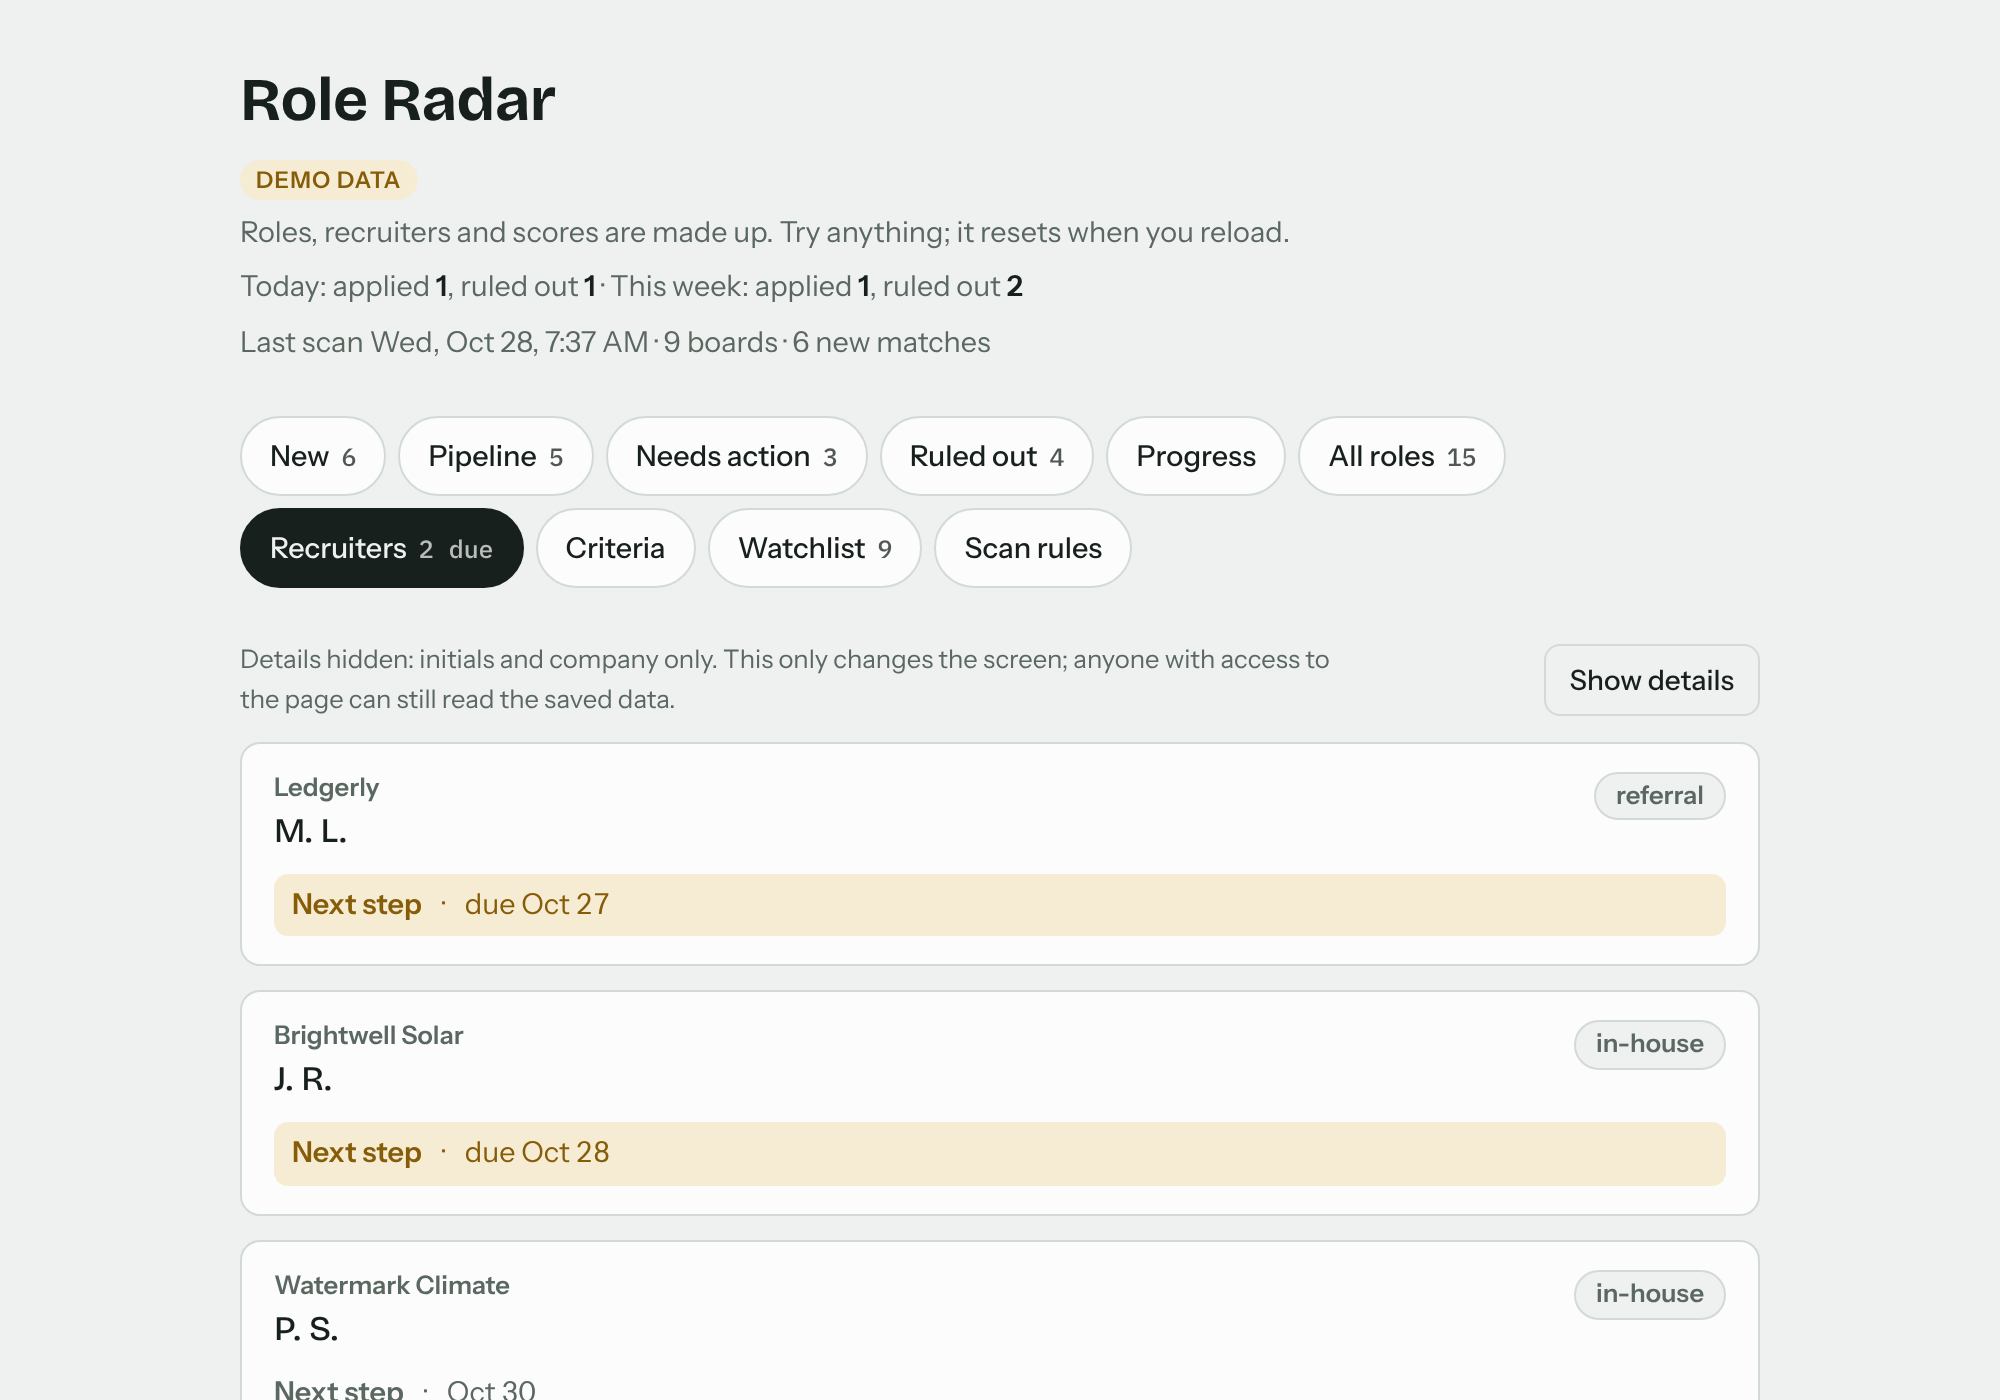
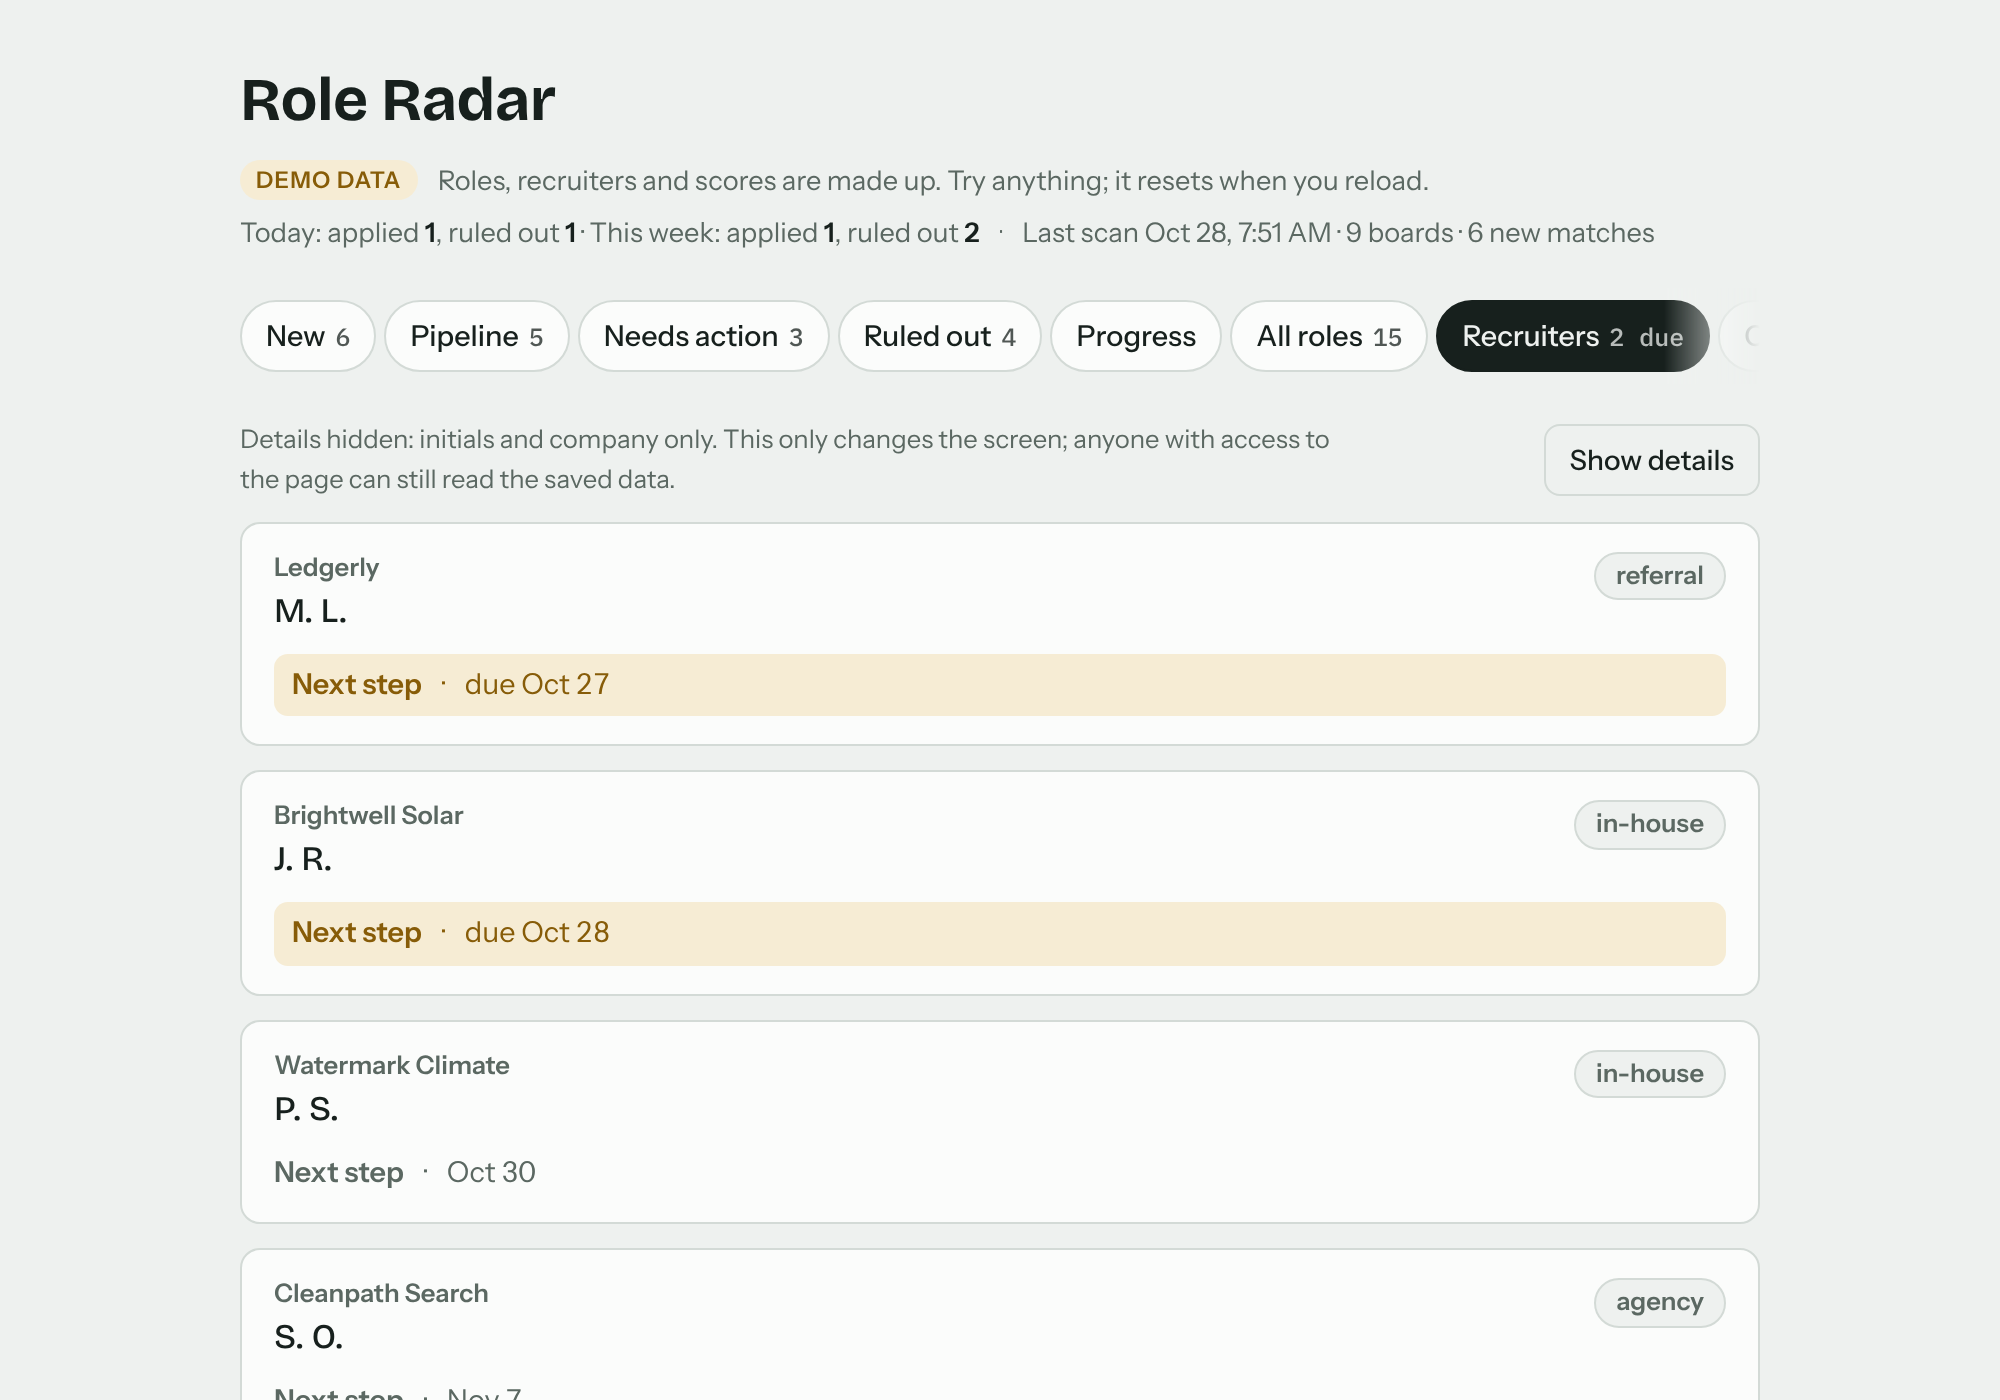
RR-M3.6: final UI round (one tab row, two-line header, no Apply on applied roles)
Claude-Session: https://claude.ai/code/session_01S2xZTupe2qe2vZrkJ8z2XQ

diff --git a/app/role-radar.html b/app/role-radar.html
@@ -29,9 +29,13 @@ h1{font-family:var(--f-display);font-weight:700;font-size:1.9rem;letter-spacing:
 .mono{font-family:var(--f-mono);font-variant-numeric:tabular-nums}
 /* Dates and pay inside sentences read in the body font (tabular digits keep columns tidy). */
 .next .mono,.pv-head .meta .mono,.gmlist .mono{font-family:var(--f-body)}
-#tabs{display:flex;gap:6px;flex-wrap:wrap;scrollbar-width:none;position:sticky;top:env(safe-area-inset-top,0px);background:var(--bg);padding-block:8px;z-index:2}
+/* Tabs: one row at every width (RR-UX5-1). Tabs past the edge scroll sideways; a fade marks the hidden side. */
+#tabs{display:flex;gap:4px;flex-wrap:nowrap;overflow-x:auto;scrollbar-width:none;position:sticky;top:env(safe-area-inset-top,0px);background:var(--bg);padding-block:6px;z-index:2}
+#tabs.more-r{-webkit-mask-image:linear-gradient(to right,#000 calc(100% - 48px),transparent);mask-image:linear-gradient(to right,#000 calc(100% - 48px),transparent)}
+#tabs.more-l{-webkit-mask-image:linear-gradient(to left,#000 calc(100% - 48px),transparent);mask-image:linear-gradient(to left,#000 calc(100% - 48px),transparent)}
+#tabs.more-l.more-r{-webkit-mask-image:linear-gradient(to right,transparent,#000 48px,#000 calc(100% - 48px),transparent);mask-image:linear-gradient(to right,transparent,#000 48px,#000 calc(100% - 48px),transparent)}
 #tabs::-webkit-scrollbar{display:none}
-#tabs button{font:500 .9rem var(--f-body);border:1px solid var(--line);background:var(--surface);color:var(--ink);border-radius:999px;padding:0 14px;min-height:40px;cursor:pointer;display:flex;flex:none;gap:6px;align-items:center;white-space:nowrap;scroll-snap-align:start}
+#tabs button{font:500 .9rem var(--f-body);border:1px solid var(--line);background:var(--surface);color:var(--ink);border-radius:999px;padding:0 12px;min-height:36px;cursor:pointer;display:flex;flex:none;gap:5px;align-items:center;white-space:nowrap;scroll-snap-align:start}
 #tabs button:hover{border-color:var(--accent)}
 #tabs button[aria-selected="true"]{background:var(--ink);color:var(--bg);border-color:var(--ink)}
 #tabs .n{font-family:var(--f-mono);font-size:.78rem;opacity:.75}
@@ -59,7 +63,7 @@ button:focus-visible,input:focus-visible,select:focus-visible,textarea:focus-vis
 .st{background:var(--accent-soft);color:var(--accent)}
 .actions{display:flex;flex-wrap:wrap;gap:6px}
 /* Buttons: one solid-accent primary per card or form (.cta / .primary), the rest outlined. 36px on desktop, 44px on touch. */
-.btn{font:500 .875rem var(--f-body);border:1px solid var(--line);background:transparent;color:var(--ink);border-radius:8px;padding:0 12px;min-height:36px;box-sizing:border-box;display:inline-flex;align-items:center;justify-content:center;gap:6px;cursor:pointer}
+.btn{white-space:nowrap;font:500 .875rem var(--f-body);border:1px solid var(--line);background:transparent;color:var(--ink);border-radius:8px;padding:0 12px;min-height:36px;box-sizing:border-box;display:inline-flex;align-items:center;justify-content:center;gap:6px;cursor:pointer}
 .btn:hover{border-color:var(--accent)}
 .btn.cta{background:var(--accent);border-color:var(--accent);color:var(--surface);font-weight:600}
 .btn.cta:hover{filter:brightness(1.08)}
@@ -108,8 +112,8 @@ dialog .row2{display:flex;gap:8px;justify-content:flex-end;margin-top:10px;flex-
 .fbar{margin:0 0 14px;background:var(--surface);border:1px solid var(--line);border-radius:10px;padding:12px 14px;display:grid;gap:10px}
 .fbar .fields{grid-template-columns:repeat(auto-fit,minmax(130px,1fr))}
 #ftoggle{display:none;align-items:center}
-/* On phones the tab bar wraps to 2-3 rows, so it scrolls away instead of covering a fifth of the screen. */
-@media (max-width:600px){#tabs{position:static;flex-wrap:nowrap;overflow-x:auto;scroll-snap-type:x proximity;padding:6px 16px;margin-inline:-16px;scroll-padding-inline:16px}}
+/* On phones the tab bar scrolls away instead of covering a fifth of the screen. */
+@media (max-width:600px){#tabs{position:static;gap:6px;scroll-snap-type:x proximity;padding:6px 16px;margin-inline:-16px;scroll-padding-inline:16px}}
 /* Phones: a shorter header so the first role title lands on the first screen. */
 @media (max-width:600px){h1{font-size:1.6rem}.wrap{padding-top:12px;gap:12px}header{gap:4px}.lede{font-size:.95rem}}
 /* Filters fold behind one button at every width, so the first role is never pushed below the fold (RR-UX4-1). */
@@ -228,6 +232,10 @@ details.more form{display:grid;gap:10px;padding-top:10px}
 .why-score{font:400 .72rem/1.45 var(--f-mono);color:var(--muted)}
 .why-score span{white-space:nowrap}
 .dream-note{font:500 .8rem var(--f-body);color:var(--good);margin:0}
+/* Header meta in two rows: demo badge + note, then today's progress · last scan (RR-UX5-2). */
+.hrow{display:flex;flex-wrap:wrap;align-items:center;gap:4px 10px;min-width:0}
+.hrow:not(:has(> :not([hidden]))){display:none}
+@media (min-width:601px){header .sub{font-size:.85rem}.meta-row:has(#progress:not([hidden])){flex-wrap:nowrap}#progress{white-space:nowrap}#progress:not([hidden])+#scanLine{white-space:nowrap;min-width:0;overflow:hidden;text-overflow:ellipsis}#progress:not([hidden])+#scanLine::before{content:"·";margin-right:10px}}
 .demo{font:600 .72rem var(--f-body);letter-spacing:.05em;text-transform:uppercase;padding:3px 8px;border-radius:999px;background:var(--warn-soft);color:var(--warn);justify-self:start}
 .dig{display:grid;gap:6px;margin:0;padding:0;list-style:none}
 .dig li{display:grid;grid-template-columns:auto minmax(0,1fr);gap:2px 10px;align-items:baseline}
@@ -288,10 +296,10 @@ details.more form{display:grid;gap:10px;padding-top:10px}
   <header>
     <h1>Role Radar</h1>
     <p class="lede" id="lede" hidden>A job-search radar I built for my own search. It reads job boards every weekday and scores each role 0–100 against criteria I edit, with the math on every card. Applying stays my own call.</p>
-    <span class="demo" id="demoNote" hidden>Demo data</span>
-    <p class="sub" id="demoTry" hidden>Roles, recruiters and scores are made up. Try anything; it resets when you reload.</p>
-    <p class="sub progress" id="progress" role="status" hidden></p>
-    <p class="sub" id="scanLine">Remote Senior and Staff PM roles from company boards, ZipRecruiter, Himalayas and job alerts, checked every weekday morning.</p>
+    <div class="hrow"><span class="demo" id="demoNote" hidden>Demo data</span>
+    <p class="sub" id="demoTry" hidden>Roles, recruiters and scores are made up. Try anything; it resets when you reload.</p></div>
+    <div class="hrow meta-row"><p class="sub progress" id="progress" role="status" hidden></p>
+    <p class="sub" id="scanLine">Remote Senior and Staff PM roles from company boards, ZipRecruiter, Himalayas and job alerts, checked every weekday morning.</p></div>
     <p class="sub stale" id="scanStale" role="status" hidden></p>
   </header>
 
@@ -454,15 +462,31 @@ function renderTabs(){
   const c=counts();
   if(tab==="people"&&!showPeople()) tab="inbox";
   $("#tabs").innerHTML=tabList().map(t=>`<button role="tab" id="tab-${t.id}" aria-selected="${t.id===tab}" data-tab="${t.id}">${t.label}${c[t.id]!==""?` <span class="n">${c[t.id]}${t.id==="people"?" due":""}</span>`:""}</button>`).join("");
+  tabsInView();
 }
+// One-row tab bar (RR-UX5-1): scroll the selected tab into view and fade whichever edge hides more tabs.
+function tabsEdges(){ const el=$("#tabs"); if(!el) return; const max=el.scrollWidth-el.clientWidth;
+  el.classList.toggle("more-l",el.scrollLeft>2); el.classList.toggle("more-r",el.scrollLeft<max-2); }
+function tabsInView(){ const el=$("#tabs"), b=el&&el.querySelector('[aria-selected="true"]'); if(!b) return;
+  const r=b.getBoundingClientRect(), e=el.getBoundingClientRect();
+  if(r.left<e.left) el.scrollLeft-=e.left-r.left+48; else if(r.right>e.right) el.scrollLeft+=r.right-e.right+48;
+  tabsEdges(); }
+$("#tabs").addEventListener("scroll",tabsEdges,{passive:true});
+addEventListener("resize",tabsEdges);
+$("#tabs").addEventListener("keydown",e=>{
+  const bs=[...$("#tabs").querySelectorAll("[role=tab]")], i=bs.indexOf(document.activeElement); if(i<0) return;
+  const j={ArrowRight:i+1,ArrowLeft:i-1,Home:0,End:bs.length-1}[e.key]; if(j===undefined) return;
+  e.preventDefault(); bs[(j+bs.length)%bs.length].focus();
+});
 // "greenhouse:orbitline" -> "Greenhouse"
 const boardName=v=>{const a=String(v||"").split(":")[0].toLowerCase(); return (PV&&PV.ATS_LABEL[a])||{workday:"Workday",ashby:"Ashby"}[a]||a||"?";};
 function renderScan(){
   const sw=$("#scanStale"), stale=!!(scan&&scan.lastRun&&PG&&PG.scanStale&&PG.scanStale(scan.lastRun,Date.now()));
   sw.textContent=stale?`Scan hasn't run since ${fmtDate(scan.lastRun)}. New roles may be missing; check the scheduled scan.`:""; sw.hidden=!stale;
   if(!scan){ $("#scanLine").textContent="Remote Senior and Staff PM roles from company boards, ZipRecruiter, Himalayas and job alerts, checked every weekday morning. No scan has run yet."; return;}
-  const when=scan.lastRun?new Date(scan.lastRun).toLocaleString(undefined,{weekday:"short",month:"short",day:"numeric",hour:"numeric",minute:"2-digit"}):"";
+  const when=scan.lastRun?new Date(scan.lastRun).toLocaleString(undefined,{month:"short",day:"numeric",hour:"numeric",minute:"2-digit"}):"";
   $("#scanLine").innerHTML=`Last scan ${esc(when)} · ${esc(scan.boardsChecked??"?")} boards · ${esc(scan.newMatches??0)} new matches${scan.note?` · ${esc(scan.note)}`:""}`;
+  $("#scanLine").title=$("#scanLine").textContent; // full text when the laptop meta row trims it
 }
 
 function datesLine(j){
@@ -522,6 +546,7 @@ function jobCard(j){
   const fupDue=s==="applied"&&j.followUpDue&&j.followUpDue<=today();
   const cta=INBOX.includes(s)?"save":s==="saved"&&TOOLS?"apply":s==="applying"?"applied":fupDue?"fup":"";
   const btn=k=>`btn${cta===k?" cta":""}`;
+  const preApply=TOOLS&&(INBOX.includes(s)||s==="saved"||s==="applying"); // Apply (or Re-run intake) only until you apply
   // A form, so a redraw from the database doesn't wipe a note being typed (see softRender). Picking a reason
   // only marks the chip; nothing saves until Skip role, and both the reason and a comment are required.
   const skipRow=skipOpen===j._id?`<form class="skipwhy" data-skipform="${id}" aria-label="Why skip this role?" novalidate>
@@ -553,10 +578,10 @@ function jobCard(j){
     ${j.nextStep?`<p class="note"><b>Next:</b> ${esc(j.nextStep)}</p>`:""}
     ${j.emailNote?`<p class="note" style="color:var(--muted)">Inbox: ${esc(j.emailNote)}</p>`:""}
     ${s==="skipped"&&(j.skipReason||j.skipNote)?`<p class="note" style="color:var(--muted)">Ruled out${ruledAt(j)?` ${fmtDate(ruledAt(j))}`:""}: ${esc([j.skipReason,j.skipNote].filter(Boolean).join(". "))}</p>`:""}
-    <div class="apply-row">
-      ${TOOLS?`<button class="btn apply${cta==="apply"?" cta":""}" type="button" data-apply="${id}">${resumeUrl?"Re-run intake":"Apply"}</button>`:""}
-      ${!TOOLS?"":resumeUrl?`<a class="resume" href="${esc(resumeUrl)}" target="_blank" rel="noopener">${esc(j.resumeName||"Tailored resume")} ↗</a>`:(j.resumeName?`<span class="hint">Resume: ${esc(j.resumeName)}</span>`:`<span class="hint">Copies an intake prompt for a new chat</span>`)}
-    </div>
+    ${TOOLS&&(preApply||resumeUrl||j.resumeName)?`<div class="apply-row">
+      ${preApply?`<button class="btn apply${cta==="apply"?" cta":""}" type="button" data-apply="${id}">${resumeUrl?"Re-run intake":"Apply"}</button>`:""}
+      ${!TOOLS?"":resumeUrl?`<a class="resume" href="${esc(resumeUrl)}" target="_blank" rel="noopener">${esc(j.resumeName||"Tailored resume")} ↗</a>`:(j.resumeName?`<span class="hint">Resume: ${esc(j.resumeName)}</span>`:preApply?`<span class="hint">Copies an intake prompt for a new chat</span>`:"")}
+    </div>`:""}
     <div class="ctl">
       <label class="sr" style="display:flex;gap:6px;align-items:center">Status
         <select id="st-${id}" data-setstatus="${id}">${stOpts}</select></label>

diff --git a/HANDOFF.md b/HANDOFF.md
@@ -108,6 +108,7 @@ _Updated 2026-10-24._
 - RR-M3.3 UI to 8/10 (`claude/project-thread-6wmh2k-m3-3`, stacked on M3.2), round 1: ux-reviewer 5/10 before (390: 4.5, 1280: 5.5), 6.5/10 after. `tests/ui-polish.test.mjs` RR-UX3-1..7, red first: score is a 48px tile top-right; phone tabs are one scrolling row (still not sticky) so the first card is above the fold; full-width phone titles; one filled primary action per card (`.btn.cta`); aligned Values/Culture rows; accent links; 16px body and one sentence-case label style. README screenshots regenerated. 236 tests, green 3x. Round 2: RR-UX4-1..8 red first, then fixed: filters fold behind the toggle at every width (supersedes the old "wide screen shows filters" test, rewritten to the new rule), 44px Pipeline section rows, phone fit reasons on their own line, at most one accent action per card, "Start from the example" primary on an empty editor, "Open Criteria" on a first-run New tab, compact score math, a solid error card with a filled Reload. 244 tests, green 3x. Screenshots regenerated. ux-reviewer after round 2: 7.0/10 (390 and 1280); next gap is the laptop first screen (tabs wrap to 2 rows, 3-4 grey header lines).
 - RR-M3.4 harden (`claude/project-thread-6wmh2k-m3-4`, stacked on M3.3): new `.github/workflows/ci.yml` runs the personal-data check, `npm test` (unit + browser tests in Chromium) and the demo build on every PR and push to main; `pages.yml` now deploys only after `ci` succeeds on a push to main (`workflow_run`), with Pages write permissions on the deploy job only; `.github/dependabot.yml` (npm + actions, weekly, grouped); README CI badge. qa-tdd sweep mapped every core flow to tests and added `tests/hardening-4.test.mjs` (RR-H-11..28) and `tests/ci-config.test.mjs`: 11 real bugs, all fixed (Save details now redraws, long strings no longer widen the page, blank inputs refused with a message, "Untitled role", unknown statuses shown honestly, YAML lists refused, null Gmail messages skipped, 2,000 roles: All tab 6.6s -> 0.7s, search 7.7s -> 0.2s). privacy-security: safe to ship, no P0/P1. 265 tests, green 3x. First CI run caught a timing flake in the skip-form focus check (read focus the same tick as the click); the test now waits for focus.
 - RR-M3.5 enhancements (`claude/project-thread-6wmh2k-m3-5`, stacked on M3.4), picked for recruiter impact: (1) "This morning's digest" card at the top of New (what the scan would send, from a shared `digestOf()` that the Criteria preview also uses; open at 900px+, collapsed on phones; entries jump to the role). (2) Deep links: `?tab=<id>` (hidden tabs never open from a link), tab clicks keep the URL in sync, `#role-<id>` focuses a role card. `tests/enhancements.test.mjs` RR-M3.5-1..14, red first. 279 tests, green 3x. CI caught RR-H-21 at 502ms (limit 500): the digest card re-ranked all New roles on every search keystroke; `digestOf()` now caches while jobs and criteria are unchanged (keystroke 258-392ms -> 144-196ms locally).
+- RR-M3.6 final UI round + demo check (`claude/project-thread-6wmh2k-m3-6`, stacked on M3.5): RR-UX5-1 tabs are one tighter row (scrolls sideways with an edge fade and arrow/Home/End keys when they don't fit), RR-UX5-2 header meta on two lines so the first role is above the fold at 1280x800 with the digest open, RR-UX5-3 no Apply on applied-or-later roles, RR-UX5-5 buttons never wrap. Red first in `tests/ui-polish.test.mjs`. 283 tests, green 3x.
 - Night shift 2026-10-23 (hardening), draft PR #31: done and marked ready. Round 3 review found nothing at P2 or above (one P2 leftover also fixed: dates and pay inside sentences now use the body font). 127 tests, green 3x.
 - Power hour (Chase, 2026-10-22): PRs #20-#25 (recruiter-ready) and #16 (dream-role anchors, 93/93 tests on the merge) are merged to main. PR #18 (job description preview) merged 2026-10-23 after bringing main in; live page republished with `posting.js` the same day.
 - Public demo: merged (PR #17), repo renamed to `role-radar`, redeployed, Pages green after #25. Waiting on a phone check of the live URL and https, and on the portfolio repoint (intake with Chase).
